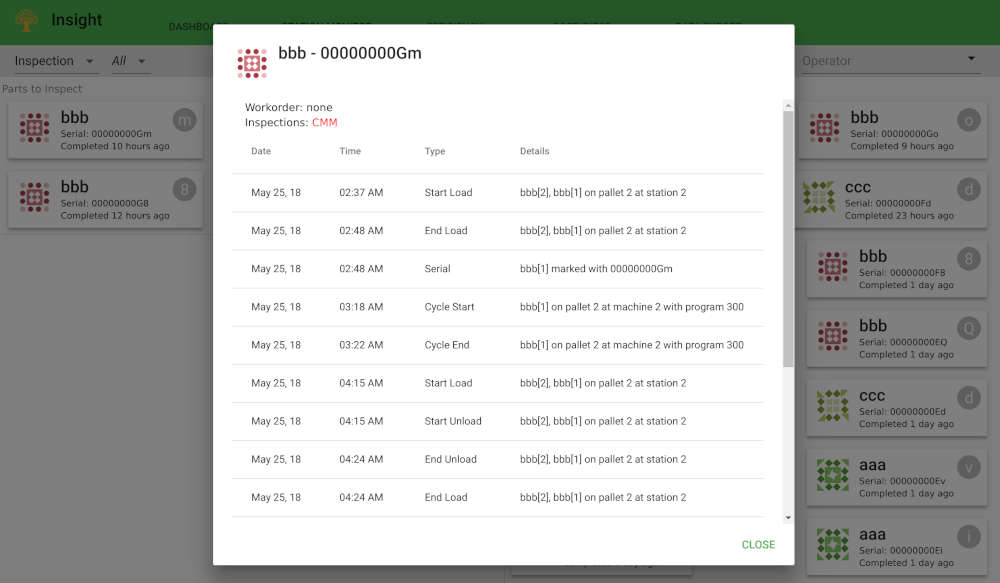
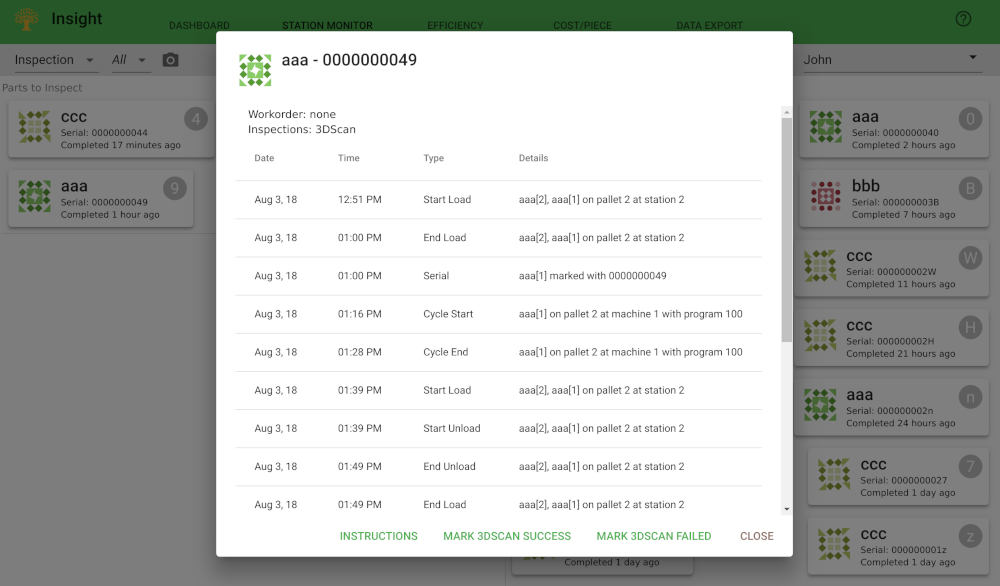
update screenshots to display new inspection buttons

diff --git a/docs/client-station-monitor.md b/docs/client-station-monitor.md
@@ -38,7 +38,10 @@ the queue can be displayed along with the pallet regions.
 
 When a material sticky note is clicked or tapped, a dialog will open with a log of events for the
 piece of material.  In the dialog, a serial can be entered or changed, the part can be
-marked for inspection, and assigned to a workorder.
+marked for inspection, assigned to a workorder, and [load instructions](part-instructions.md) can
+be opened.
+An attached [barcode scanner](client-scanners.md) can also be used to open the material
+dialog.
 
 ## Queues
 
@@ -56,6 +59,8 @@ scan a barcode, or manually select a job for the added material.
 By clicking or tapping on a material sticky note, a dialog will open with
 details about the specific piece of material. The dialog will have a button
 at the bottom labeled "Remove From Queue".
+An attached [barcode scanner](client-scanners.md) can also be used to open the material
+dialog.
 
 ## Inspection
 
@@ -76,10 +81,11 @@ successfully inspected or failed. When clicked or tapped, this will record an
 event in the log and move the virtual sticky note from the left to the right.
 The top toolbar on the right allows an operator name to be entered and this
 operator name will be attached to the created inspection completed log entry.
+Finally, the operator can open [inspection instructions](part-instructions.md).
 
-Finally, an attached barcode scanner can also be used to open the material
+An attached [barcode scanner](client-scanners.md) can also be used to open the material
 dialog. This allows viewing details and marking as inspected or uninspected
-any part by scanned serial.
+any part by scanned serial (even if the part is not on the screen because more than 36 hours has passed).
 
 ## Wash
 
@@ -96,11 +102,12 @@ log of events for the piece of material. There is a button to mark a piece of
 material as completing wash. When clicked or tapped, this will record an
 event in the log and move the virtual sticky note from the left to the right.
 The top toolbar on the right allows an operator name to be entered and this
-operator name will be attached to the created inspection completed log entry.
+operator name will be attached to the created wash completed log entry.
+Finally, the operator can open [wash instructions](part-instructions.md).
 
-Finally, an attached barcode scanner can also be used to open the material
-dialog. This allows viewing details and marking as inspected or uninspected
-any part by scanned serial.
+An attached [barcode scanner](client-scanners.md) can also be used to open the material
+dialog. This allows viewing details and marking as wash completed
+any part by scanned serial (even if the part is not on the screen because more than 36 hours has passed).
 
 ## All Material
 
